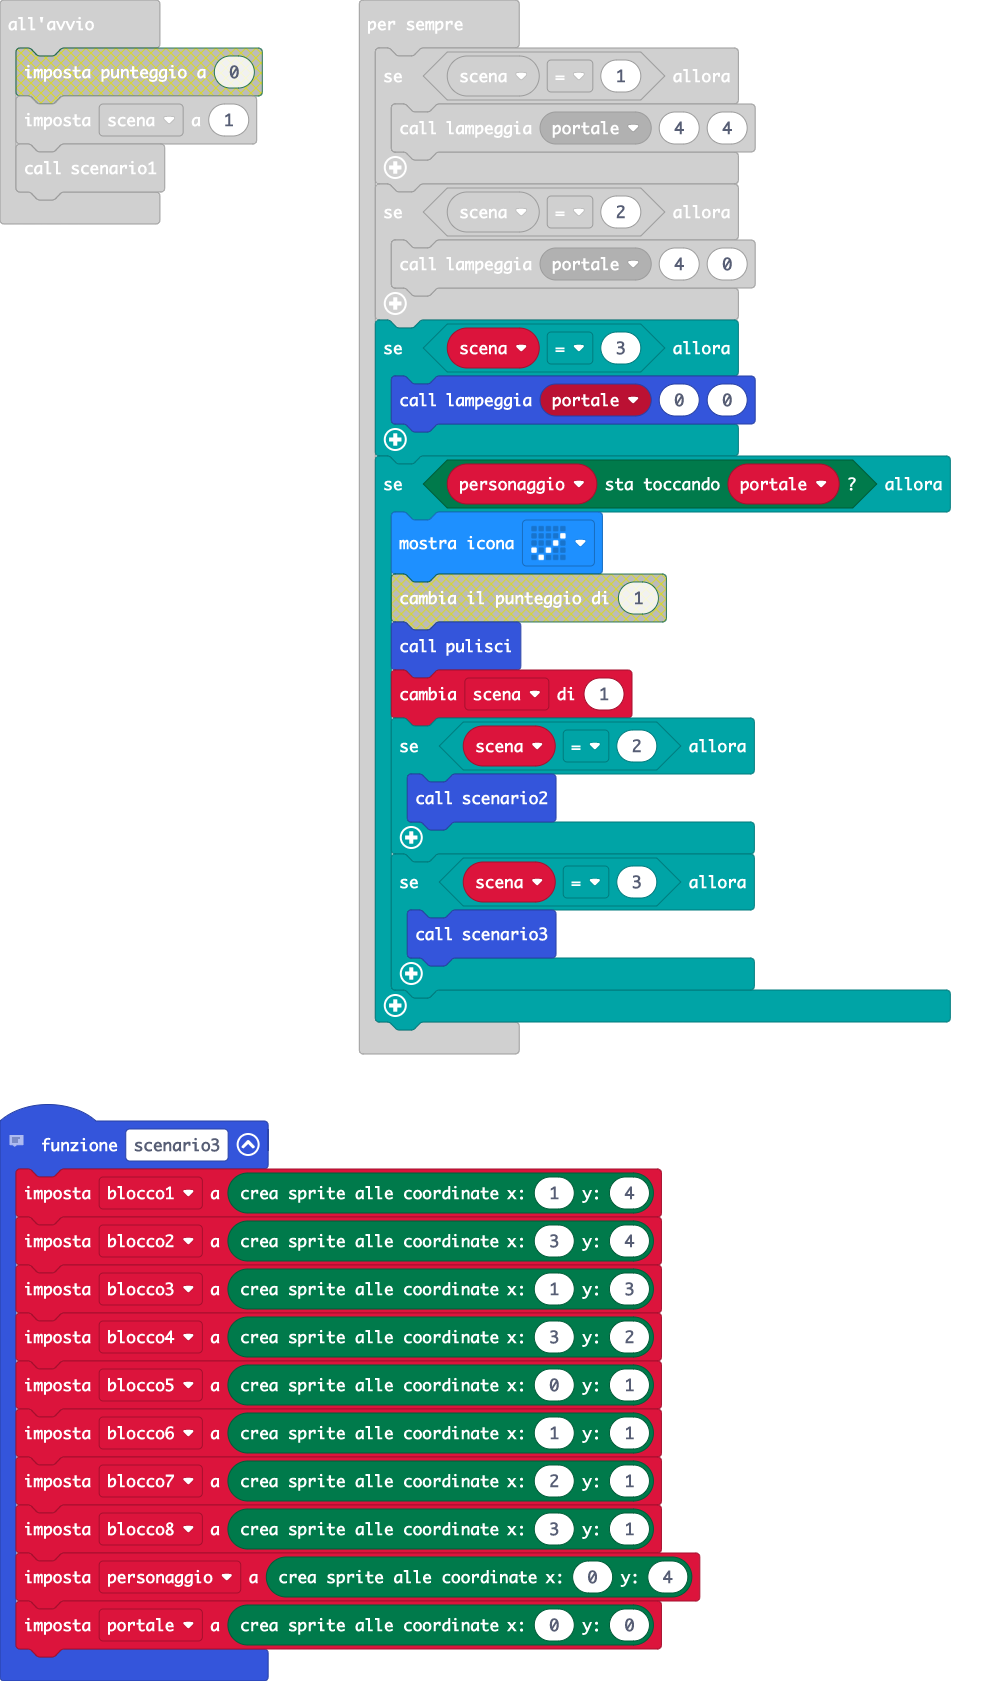
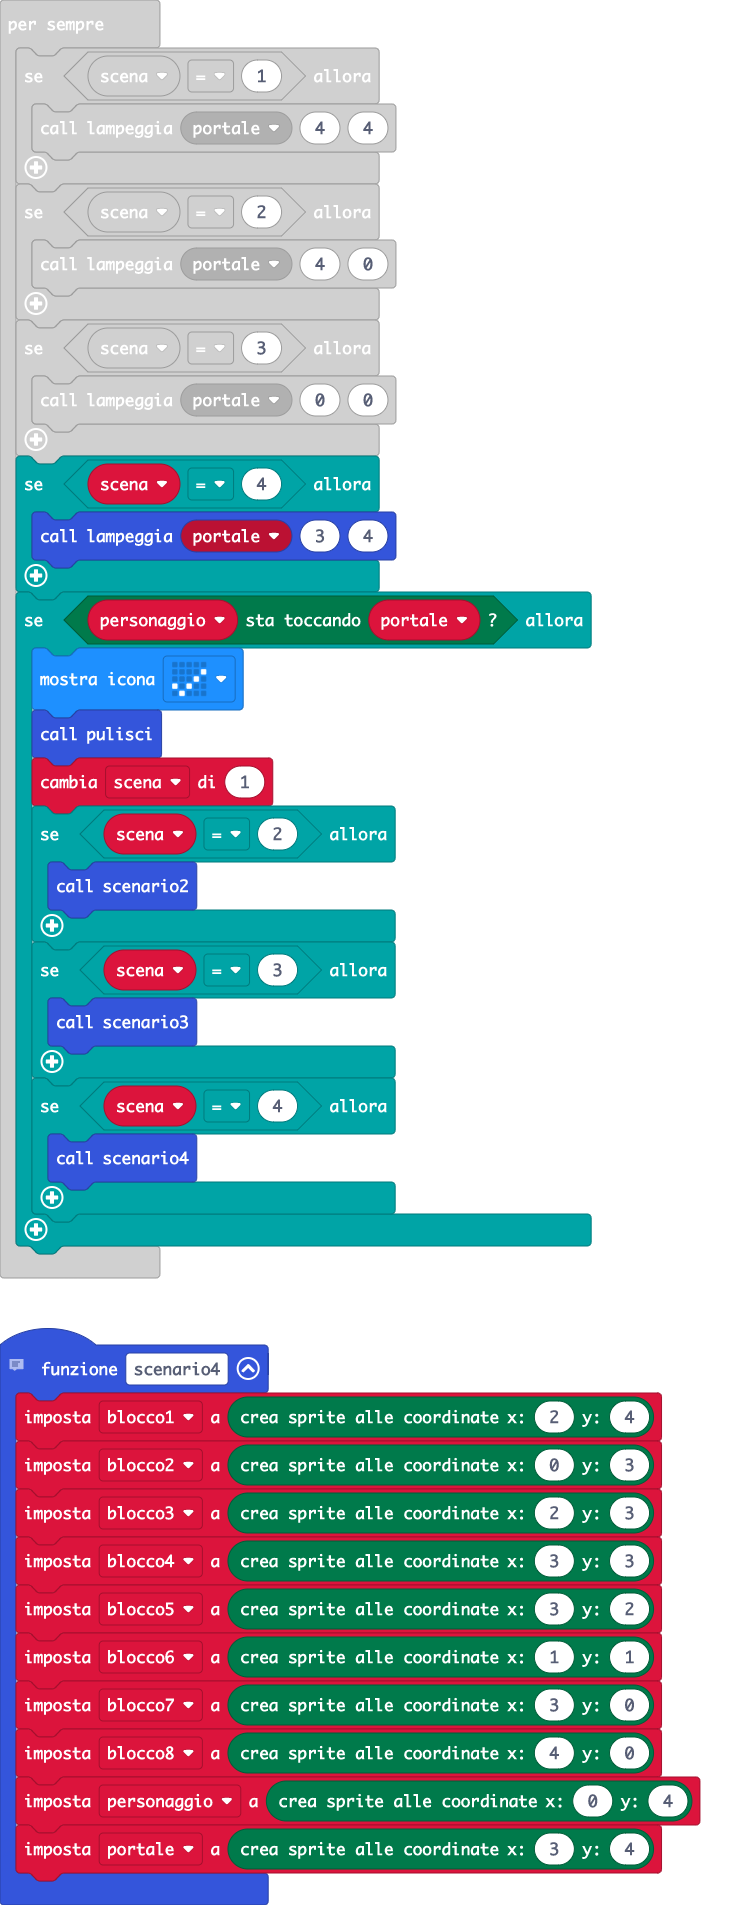
Update main.blocks, main.ts

diff --git a/main.ts b/main.ts
@@ -57,6 +57,19 @@ function scenario1 () {
     personaggio = game.createSprite(0, 4)
     portale = game.createSprite(4, 4)
 }
+// inizializzo lo scenario 1, quindi crea tutti i blocchi dei muri, il personaggio e il portale
+function scenario4 () {
+    blocco1 = game.createSprite(2, 4)
+    blocco2 = game.createSprite(0, 3)
+    blocco3 = game.createSprite(2, 3)
+    blocco4 = game.createSprite(3, 3)
+    blocco5 = game.createSprite(3, 2)
+    blocco6 = game.createSprite(1, 1)
+    blocco7 = game.createSprite(3, 0)
+    blocco8 = game.createSprite(4, 0)
+    personaggio = game.createSprite(0, 4)
+    portale = game.createSprite(3, 4)
+}
 function lampeggia (sprite: game.LedSprite, x: number, y: number) {
     x = sprite.get(LedSpriteProperty.X)
     y = sprite.get(LedSpriteProperty.Y)
@@ -108,6 +121,9 @@ basic.forever(function () {
     if (scena == 3) {
         lampeggia(portale, 0, 0)
     }
+    if (scena == 4) {
+        lampeggia(portale, 3, 4)
+    }
     if (personaggio.isTouching(portale)) {
         basic.showIcon(IconNames.Yes)
         pulisci()
@@ -117,6 +133,9 @@ basic.forever(function () {
         }
         if (scena == 3) {
             scenario3()
+        }
+        if (scena == 4) {
+            scenario4()
         }
     }
 })
